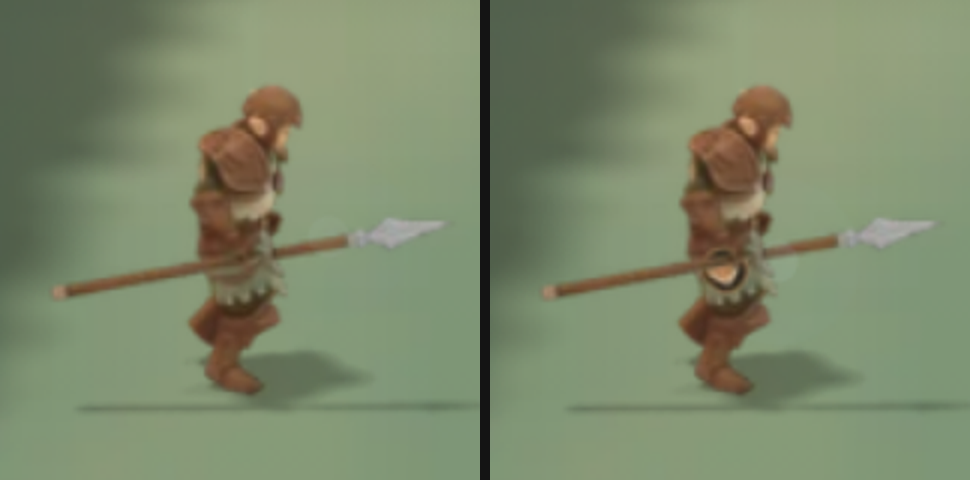
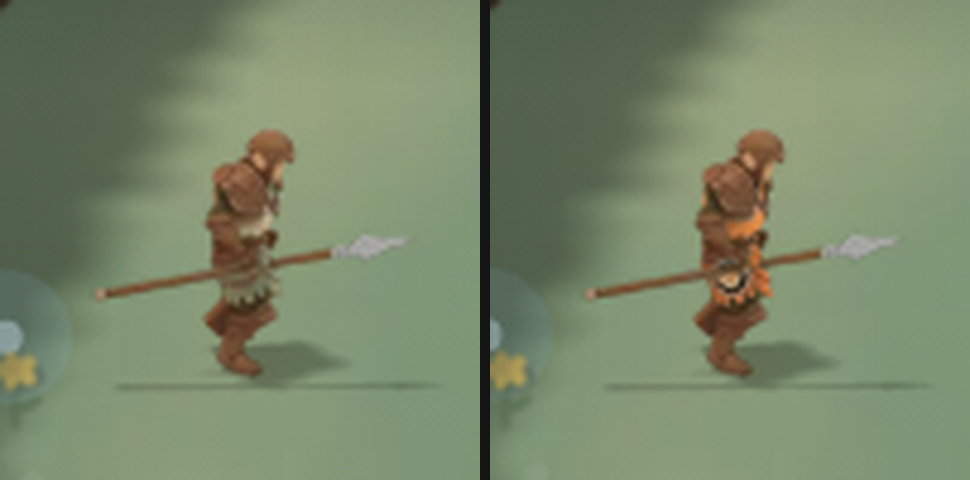
art, render: fox tabards dye the tunic rust orange, cream sigil rim (TB-250)

diff --git a/.claude/skills/mixamo-animate/scripts/fox_decal.py b/.claude/skills/mixamo-animate/scripts/fox_decal.py
@@ -3,6 +3,12 @@
 # and armature, so it moves with the cloth frame for frame. Its own UV map "fox" is a planar projection of the rest-pose vertices; outside
 # the roundel the image is transparent (CLIP), so only the paint shows. Rendered with TABARDONLY=1 (apply_anim.py: every other mesh a
 # holdout) it gives the paint's visible pixels only, which the game draws over the plain van.spear frame.
+# TUNIC (director 26 Nov: "warm rust-orange tunic and skirt cloth, unlike the ember cloak"): a second shell, "tabard_cloth", a copy of
+# the whole body in its place (the body itself hidden from render), wearing the body's own material with its
+# colour map re-dyed: each cloth texel (green close to red: the sage tunic, its cream lining and the olive undershirt) keeps its brightness and takes
+# TUNIC; every other texel (leather, metal, skin) is a holdout, so only the cloth shows and changes colour.
+# RIM (director 26 Nov: "fox sigil at the hip with a cream rim"): the sigil's orange outer ring (radius RIMR..edge, px of the 192 px
+# sigil) repainted in RIM.
 #   blender -b --factory-startup <spearman.blend> --python fox_decal.py -- <out.blend>
 # PLACES: "<side>:<c_u>,<c_v>:<size>;..." side is the axis the paint faces (-x = the body's right flank, the side the game camera sees;
 # -y = chest front, +y = back); c_u, c_v the roundel's centre in the plane (world units, u = across, v = up), size its diameter.
@@ -11,6 +17,8 @@ from mathutils import Vector
 out = sys.argv[sys.argv.index("--") + 1]
 SIG = os.environ.get("SIGIL", r"C:\Users\DANTE\Documents\tide-assets\banners\sigil_fox.png")
 OFF = float(os.environ.get("OFF", "0.0025"))
+TUNIC = os.environ.get("TUNIC"); RIM = os.environ.get("RIM"); RIMR = float(os.environ.get("RIMR", "83.5"))
+import numpy as np
 KEEP = ("Spine", "Hips", "UpLeg")   # paint only on faces the torso or skirt carries (never the arms, which hang over the flank)
 AX = {"-x": (Vector((-1, 0, 0)), Vector((0, -1, 0))), "+x": (Vector((1, 0, 0)), Vector((0, 1, 0))),
       "-y": (Vector((0, -1, 0)), Vector((1, 0, 0))), "+y": (Vector((0, 1, 0)), Vector((-1, 0, 0)))}   # normal, u axis (reads unmirrored from that side)
@@ -19,7 +27,34 @@ for p in os.environ.get("PLACES", "-x:0.02,0.33:0.12").split(";"):
     side, c, s = p.split(":"); cu, cv = map(float, c.split(",")); places.append((side, cu, cv, float(s)))
 
 body = bpy.data.objects["body"]
-dec = body.copy(); dec.data = body.data.copy(); dec.name = dec.data.name = "tabard_fox"
+
+def bone_ok(bm, f, dl, vg):
+    bones = [vg[max(v[dl].items(), key=lambda kv: kv[1])[0]] if v[dl] else "" for v in f.verts]
+    return all(any(k in b for k in KEEP) for b in bones)
+
+if TUNIC:   # the re-dyed cloth shell
+    tgt = np.array([float(v) for v in TUNIC.split(",")], dtype=np.float32)
+    cl = body.copy(); cl.data = body.data.copy(); cl.name = cl.data.name = "tabard_cloth"
+    for c in body.users_collection: c.objects.link(cl)
+    body.hide_render = True   # the shell IS the body in this blend: no offset (Tripo normals point inward on ~a quarter of the torso)
+    mt = body.data.materials[0].copy(); mt.name = "tunic_dye"; nt = mt.node_tree; bs = nt.nodes["Principled BSDF"]
+    tx = next(n for n in nt.nodes if n.type == "TEX_IMAGE" and "basecolor" in n.image.name)
+    img = tx.image; W, H = img.size; px = np.array(img.pixels[:], dtype=np.float32).reshape(H, W, 4); c = px[..., :3]
+    mx = c.max(-1)
+    # cloth: green near red (sage, cream, olive; leather and skin sit at g/r 0.5-0.8), green over blue (no grey metal), not black
+    cloth = (c[..., 1] >= 0.85 * c[..., 0]) & (c[..., 2] <= c[..., 1] - 0.02) & (mx > 0.12)
+    lum = c @ np.array([0.299, 0.587, 0.114], dtype=np.float32); med = float(np.median(lum[cloth]))
+    dye = np.zeros_like(px); dye[..., :3] = c
+    dye[cloth, :3] = np.clip(tgt[None, :] * (lum[cloth] / med)[:, None], 0, 1); dye[..., 3] = cloth.astype(np.float32)
+    dy = bpy.data.images.new("tunic_dye", W, H, alpha=True); dy.pixels[:] = dye.ravel(); dy.pack()
+    if os.environ.get("DYEPREV"): dy.filepath_raw = os.environ["DYEPREV"]; dy.file_format = "PNG"; dy.save(); dy.pack()
+    tx.image = dy; tx.interpolation = "Closest"   # a hard cloth edge: no leather texel half-dyed by filtering
+    mo = next(n for n in nt.nodes if n.type == "OUTPUT_MATERIAL"); ho = nt.nodes.new("ShaderNodeHoldout"); mx_ = nt.nodes.new("ShaderNodeMixShader")
+    nt.links.new(tx.outputs["Alpha"], mx_.inputs[0]); nt.links.new(ho.outputs[0], mx_.inputs[1]); nt.links.new(bs.outputs[0], mx_.inputs[2])
+    nt.links.new(mx_.outputs[0], mo.inputs["Surface"])   # not cloth: a holdout, so it still hides what is behind it
+    cl.data.materials.clear(); cl.data.materials.append(mt)
+    print("TUNIC faces", len(cl.data.polygons), "cloth texels", int(cloth.sum()), "median lum", round(med, 3))
+dec = body.copy(); dec.data = body.data.copy(); dec.name = dec.data.name = "tabard_fox"; dec.hide_render = False
 for c in body.users_collection: c.objects.link(dec)
 vg = {g.index: g.name for g in dec.vertex_groups}
 def dominant(v):
@@ -34,8 +69,7 @@ for f in bm.faces:
         if f.normal.dot(n) < 0.35 or c.dot(n) < 0: continue   # faces this side, on this half of the body
         cu_, cv_ = c.dot(u), c.z
         if abs(cu_ - cu) > s * 0.6 or abs(cv_ - cv) > s * 0.6: continue
-        bones = [vg[max(v[dl].items(), key=lambda kv: kv[1])[0]] if v[dl] else "" for v in f.verts]
-        if not all(any(k in b for k in KEEP) for b in bones): continue
+        if not bone_ok(bm, f, dl, vg): continue
         keep.add(f)
         for l in f.loops: l[uv].uv = ((l.vert.co.dot(u) - cu) / s + 0.5, (l.vert.co.z - cv) / s + 0.5)
         break
@@ -47,6 +81,12 @@ for l in [l for l in me.uv_layers if l.name != "fox"]: me.uv_layers.remove(l)
 # paint: the sigil's colour and alpha, matte like the cloth under it
 mt = bpy.data.materials.new("fox_paint"); mt.use_nodes = True; nt = mt.node_tree; bs = nt.nodes["Principled BSDF"]
 tx = nt.nodes.new("ShaderNodeTexImage"); tx.image = bpy.data.images.load(SIG); tx.extension = "CLIP"; tx.interpolation = "Cubic"
+if RIM:   # the cream rim: the ring outside RIMR px takes RIM (one px blend at RIMR)
+    si = tx.image; W, H = si.size; px = np.array(si.pixels[:], dtype=np.float32).reshape(H, W, 4)
+    yy, xx = np.mgrid[0:H, 0:W]; d = np.hypot(xx + 0.5 - W / 2, yy + 0.5 - H / 2) * (192 / W)
+    w = np.clip(d - RIMR, 0, 1)[..., None]; rim = np.array([float(v) for v in RIM.split(",")], dtype=np.float32)
+    px[..., :3] = px[..., :3] * (1 - w) + rim[None, None, :] * w
+    si.pixels[:] = px.ravel(); si.update()
 uvn = nt.nodes.new("ShaderNodeUVMap"); uvn.uv_map = "fox"; nt.links.new(uvn.outputs[0], tx.inputs[0])
 nt.links.new(tx.outputs["Color"], bs.inputs["Base Color"]); nt.links.new(tx.outputs["Alpha"], bs.inputs["Alpha"])
 bs.inputs["Roughness"].default_value = 1.0

diff --git a/.claude/skills/mixamo-animate/scripts/apply_anim.py b/.claude/skills/mixamo-animate/scripts/apply_anim.py
@@ -932,7 +932,7 @@ if os.environ.get("BOWONLY"):  # TB-250 bow woods: only the bow's visible pixels
 if os.environ.get("TABARDONLY"):  # TB-250 fox tabards: only the fox paint shell (fox_decal.py) shows; the body, spear and ground are holdouts, so
     # the paint is lit and shadowed as in the full render and hidden wherever the spear or an arm passes in front of it
     for o in bpy.data.objects:
-        if o.type == "MESH" and o.name != "tabard_fox": o.is_holdout = True
+        if o.type == "MESH" and not o.name.startswith("tabard_"): o.is_holdout = True   # tabard_fox (sigil), tabard_cloth (dyed tunic)
 sc.render.resolution_x = sc.render.resolution_y = int(os.environ.get("RES", "360"))
 if os.environ.get("ANCHOR"):  # sprite foot anchor: the ground point under the rig origin, in image pixels from the top-left
     from bpy_extras.object_utils import world_to_camera_view as _w2c

diff --git a/docs/ART-STYLE.md b/docs/ART-STYLE.md
@@ -61,7 +61,7 @@ Rules: semantic colours (amber = money, timber = the wall, rose = permanent/dang
 - Elf: lavender head, slate cloak triangle, cream bow arc. Archers share the cloak but dimmed.
 - Elf cloak dyes (TB-250, director 13 Nov): the shipped elf with only its teal cloak and hood texels re-dyed (`recolor_cloak.py`, each texel keeps its own brightness), then the elf idle and draw jobs rendered again with the approved recipe (`elf.<dye>`, `elf.<dye>.attack`). Dye RGB (0..1): ember 0.560,0.230,0.110 (rust red, darker than the danger rose), frost 0.765,0.835,0.863, dusk 0.431,0.290,0.431, starlit 0.184,0.235,0.431, gold 0.722,0.569,0.247. Sized against the default elf's body, so a dye never changes the elf's size or anchor.
 - Elf bow woods (TB-250, in review): the shipped elf with only its bow's orange wood texels re-coloured (`recolor_bow.py`, each texel keeps its own brightness; the string faces keep the original material), rendered `BOWONLY` (body, quiver, arrow and ground as Cycles holdouts, so they still shade the bow but leave alpha 0) as `elfbow.<wood>` / `elfbow.<wood>.attack`, packed with the elf's own crop box (`pack_sprites.py` `BOXOF`) and drawn over the elf's frame. RGB (0..1): moonsilver 0.780,0.800,0.860, thornwood 0.300,0.320,0.240, heartwood 0.500,0.180,0.130.
-- Fox tabards (TB-250, in review): `fox_decal.py` copies the spearman's tunic faces around one spot into a thin shell (pushed 0.0025 out along the normals, same vertex groups and armature, so it moves with the cloth), maps the approved fox sigil (`banners/sigil_fox.png`, the fox path banner's roundel) onto it by a planar projection of the rest pose, and keeps only faces carried by the hips, spine or upper legs (never an arm). Spot: `PLACES=-x:-0.019,0.324:0.12`, the skirt at the right hip, 0.12 across. Both spearman blends get a `_fox` copy (`elf_spearman/fox/`); the walk and attack jobs render them `TABARDONLY` (body, spear and ground as Cycles holdouts) as `vanfox.spear` / `vanfox.spear.attack`, packed with van.spear's crop box and drawn over the spearman's frame.
+- Fox tabards (TB-250, in review): `fox_decal.py` copies the spearman's tunic faces around one spot into a thin shell (pushed 0.0025 out along the normals, same vertex groups and armature, so it moves with the cloth), maps the approved fox sigil (`banners/sigil_fox.png`, the fox path banner's roundel) onto it by a planar projection of the rest pose, and keeps only faces carried by the hips, spine or upper legs (never an arm). Spot: `PLACES=-x:-0.019,0.324:0.12`, the skirt at the right hip, 0.12 across. `RIM=0.937,0.902,0.824` repaints the sigil's outer ring (radius 83.5 px of 192 and out) in palette cream. `TUNIC=0.722,0.361,0.165` (rust orange #b85c2a, warmer and lighter than the ember cloak dye) adds a second shell, `tabard_cloth`: a copy of the whole body in its place (the body itself hidden from render; Tripo's torso normals point inward in places, so an offset shell sinks), wearing a copy of its colour map where every cloth texel (green at least 0.85 of red and above blue: the sage tunic, cream lining and olive undershirt; leather and skin sit at 0.5 to 0.8) keeps its brightness and takes the tunic colour, and every other texel is a holdout. Both spearman blends get a `_fox` copy (`elf_spearman/fox/`); the walk and attack jobs render them `TABARDONLY` (every mesh not named `tabard_*` a Cycles holdout) as `vanfox.spear` / `vanfox.spear.attack`, packed with van.spear's crop box and drawn over the spearman's frame.
 - Camp decor (TB-250 batch 2, in review): boss trophies and path banners, rendered as extra passes of `render_camp_backdrop.py` (`trophy_<boss>`, `banner_<path>`) with the buildings' orthographic camera, sun, shadow catcher and 4 px per unit, cropped by `post_decor.py` to `public/decor/camp/<id>.webp` and placed by `CAMP_DECOR_ART`. Because the camera is orthographic a piece can be moved by shifting its rect (keep the script's `DECOR` spots in step). Trophy: `build_trophy.py` cuts the head from each boss's own model (skin weights, or `CUT=plane` where the weights are ragged) and faces it to the camera; it sits on a shelf before Quaternius Fantasy Props MegaKit `Shield_Wooden` (CC0) as the plaque, its rim in iron, on a wooden post. Banner: MegaKit `Banner_2_Cloth` (CC0) in the path's `PATH_TINT` deep colour with its `drawSigil` sigil (exported at 192 px) on the cloth, on a pole with a crossbar and finial.
 - Vanguard: same silhouette as the elf. Spearman: spear-blue cloak, round timber shield on the left, long cream spear. Bladedancer: lilac cloak, two short cream blades. HP bar above when hurt.
 - Barricade: 14 px column of alternating planks with dark cross-bands, sand edge on the grove side, cream spike triangles on the plain side once Thornwall is owned.

diff --git a/docs/ACHIEVEMENTS.md b/docs/ACHIEVEMENTS.md
@@ -46,7 +46,7 @@ Two kinds. **Titles** are text only: the player picks one in the Achievements pa
 | `wall_banner_grove`, `wall_banner_tide` | a banner hung on the barricade | field |
 | `wall_lanterns` | lanterns along the barricade top | field |
 | `wall_skulls` | orc skull trophies on the barricade posts | field |
-| `shield_fox` | **Fox tabards** (in review): the fox path banner's roundel painted on every spearman's tunic, on the skirt at his right hip (the side the field camera sees; on the chest his arm hides it); shows once earned, no wear slot | vanguard sprite |
+| `shield_fox` | **Fox tabards** (in review): every spearman's tunic and skirt cloth dyed rust orange, with the fox path banner's roundel, cream-rimmed, painted on the skirt at his right hip (the side the field camera sees; on the chest his arm hides it); shows once earned, no wear slot | vanguard sprite |
 | `trophy_warboss`, `trophy_ogre`, `trophy_orc`, `trophy_raider`, `trophy_ogre_creature` | the boss's mounted head (**shipped, director approved 26 Nov**: each boss's head cut from its own model on a shelf before a round wooden plaque on a post, in a row on the meadow between the kitchen and the training ground; shows once earned, no wear slot) | camp scene |
 | `camp_campfire`, `camp_wolf_statue`, `camp_standing_stone`, `camp_lantern_string`, `camp_armour_stand`, `camp_bell`, `camp_sapling` | decor pieces | camp scene |
 | `banner_serpent`, `banner_fox`, `banner_magpie` | the path's banner on a pole (**shipped, director approved 26 Nov**: a pointed pennant in the path's deep tint with its sigil, on a pole with a crossbar, above the road between the forge and the training ground; shows once earned, no wear slot) | camp scene |

diff --git a/docs/log/2026-11-26.md b/docs/log/2026-11-26.md
@@ -2,4 +2,5 @@
 
 ## Fox tabards (TB-250, in review)
 - `shield_fox` is now "Fox tabards": the approved fox path sigil painted on every spearman's skirt at his right hip, shown once Shieldwall (branch_vanguard) is earned, no wear slot. Built in Blender only (fox_decal.py makes a paint shell of the body; TABARDONLY renders it alone), packed with van.spear's crop box into on-demand sheet_vanfox.webp and drawn over the spearman frame at the same clip time (src/render/vanPaint.ts). PR open, not merged; previews in previews/tb-250-fox-tabards/.
+- Director's revision: the tunic and skirt cloth are now dyed rust orange (#b85c2a, unlike the ember cloak) by a second shell in the same overlay (fox_decal.py `TUNIC`), and the sigil's outer ring is cream (`RIM`). Cloth is told from leather and skin by green ≥ 0.85 × red: a saturation test missed the yellowish chest cloth.
 - Learned: on the chest the spearman's right arm hides the paint from the field camera, so the hip is the only tunic area it sees. At 1080p the roundel is ~5 css px. Draw a paint overlay only when the body frame drew (sheet_van loads late), or it floats alone.
